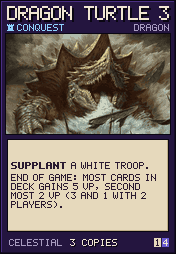
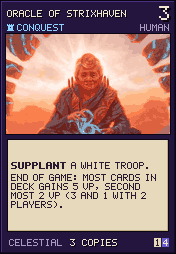
Stage NE-39: Celestial keeps only Gold Dragon — Curate -> Archpriest, Empyrean Iota -> Empyrean (owner's art, celestial figure), Half-Dragon -> Archaic, Dragon Turtle -> Oracle of Strixhaven; unused arts removed, Denathrius binding freed

diff --git a/Claude outputs/new_era_handoff.md b/Claude outputs/new_era_handoff.md
@@ -9,6 +9,7 @@
 - Имена в вопросах реакций (Shield Guard / Oni / Ankheg) берутся из cards.json.
 - **NE-37 (владелец: оборотни, Basilisk, Rakshasa в Ravenloft «не по вайбу»):** заменены на нежить, исчадие и аберрацию из D&D Beyond: 49113 Strahd von Zarovich, 49115 Relentless Slasher (FIEND), 49116 Nightmare Haunt (ABERRATION), 49118 Zombie Plague Spreader, 49103 Graveyard Revenant, 49104 Vampire Nosferatu; жетон запаса 49124 Twig Blight → Swarm of Zombie Limbs (эффект прежний). Арты в `cards/shadow/`. Strahd Zombie не взят: тот же арт, что у Zombie (Calimshan). HS-анимации ушедших существ (Argus, Tavish, Frigidara) свободны; у новых анимаций пока нет.
 - **NE-38 (владелец: меньше драконов в Celestial; карты 6+ — уникальные, туда только уникальные существа):** 49016 Ancient Brass Dragon → Sphinx of Secrets, 49021 Adult Brass Dragon → Archon of Boundaries, 49020 Silver Dragon → Empyrean Iota, 49014 Young White Dragon → Warrior Commander, 49005 Brass Dragon Wyrmling → Curate. Драконами остались Gold Dragon (+ Ancient Gold Dragon), Dragon Turtle, Half-Dragon. Анимации ушедших драконов (Clocksworth, Anachronos, Sindragosa, Frostwhisper) свободны.
+- **NE-39:** Curate → Archpriest (49005); Empyrean Iota → **Empyrean** на арте владельца `cards/celestial/empyrean.webp` (кадр — правая фигура, небожительница); Half-Dragon (49018) → Archaic (анимация Denathrius свободна); Dragon Turtle (49009) → Oracle of Strixhaven. В Celestial из драконов остался только Gold Dragon (+ Ancient Gold Dragon).
 
 ## NE-31…32 (2026-10-18): Ixtal → CHULT — 40/20, wip, задеплоено (сборка 1792269441, PROTOCOL 37)
 - **Владелец: Nidalee не делаем; динозавры можно, но только особенные — а у особенных (Aerosaur, Altisaur, Regisaur, Fastieth, Clawfoot Raptor) на D&D Beyond только вырезанные фигуры, поэтому владелец выбрал «без динозавров».**

diff --git a/hs_unity/CARD_MAP.md b/hs_unity/CARD_MAP.md
@@ -208,7 +208,7 @@ S'theno, Neptulon TID, Neeru, Al'Akir NEW1 заменены свежими).
 | Ice Devil (49518) | Moroes (KAR_044) | `Moroes_CustomSummon.prefab` | СДЕЛАНО (HsFx-78; владелец выбрал в HsBrowser 2026-10-27) |
 | Troll (49519) | Shudderblock (TOY_501t) | `TOYFX_Shudderblock_CustomSummon.prefab` | СДЕЛАНО (HsFx-79; владелец выбрал в HsBrowser 2026-10-27) |
 | Fire Giant (49636) | Neeru Fireblade (LETL_823H) | `BARFX_NeeruFireblade_CustomSummon.prefab` | СДЕЛАНО (HsFx-79; владелец выбрал в HsBrowser 2026-10-27) |
-| Half-Dragon (49018) | Sire Denathrius (REV_906t) | `REVFX_SireDenathrius_Infused_CustomSummon.prefab` | СДЕЛАНО (HsFx-79; владелец выбрал в HsBrowser 2026-10-27) |
+| ~~Half-Dragon~~ (—, существо убрано из игры NE-39; на 49018 теперь другое существо) | Sire Denathrius (REV_906t) | `REVFX_SireDenathrius_Infused_CustomSummon.prefab` | анимация свободна |
 | Wyvern (49522) | Captain Crowley (CAP_106) | `CAPFX_CaptainCrowley_CustomSummon.prefab` | СДЕЛАНО (HsFx-79; владелец выбрал в HsBrowser 2026-10-27) |
 
 ### freljord
